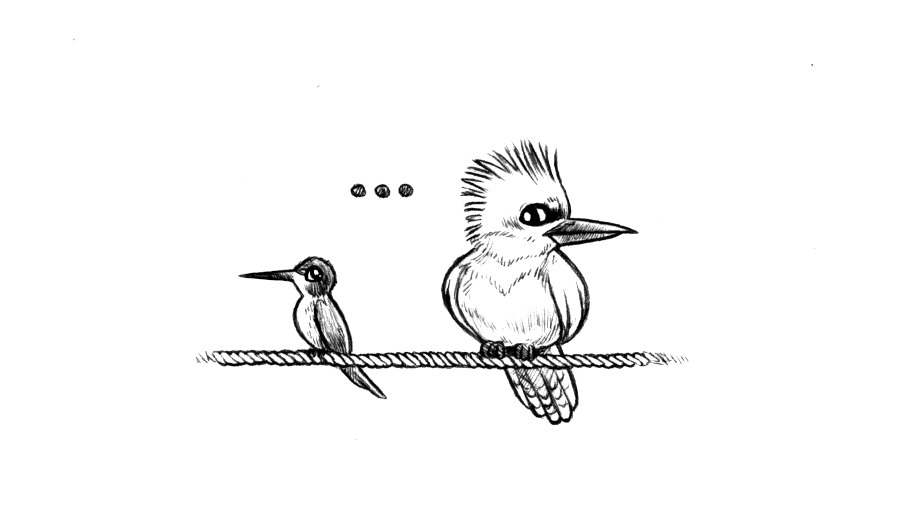
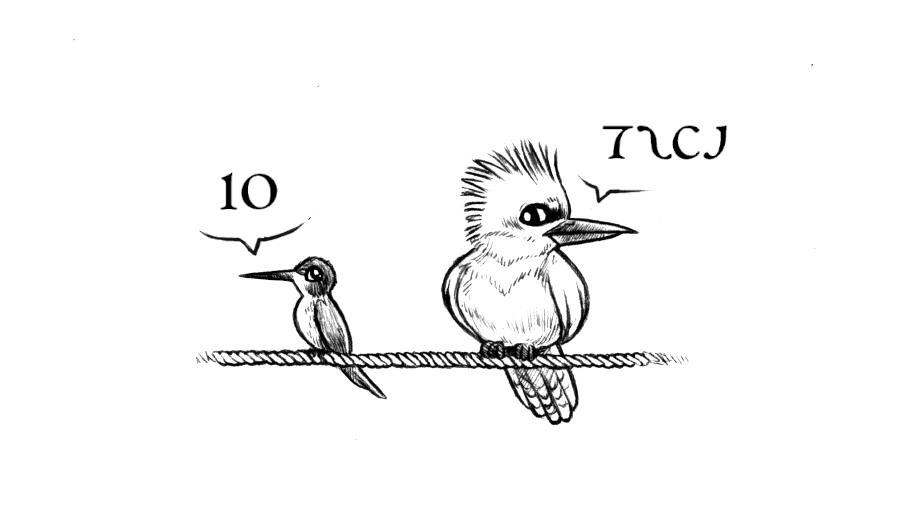
*

diff --git a/site/2025.html b/site/2025.html
@@ -55,7 +55,7 @@
 
 <h2 id='jul2025'>July 2025</h2>
 
-<img src="../media/content/videos/july_2025.jpg" alt="a hummingbird and a kingfisher who dont know what to say to each other" loading="lazy" width="1200" height="679">
+<img src="../media/content/videos/july_2025.jpg" alt="a hummingbird and a kingfisher who both are claiming Pino as theirs in Solresol" loading="lazy" width="1200" height="679">
 
 <ul>
 	<li><b><a href="https://itch.io/jam/catjam-2025">Catjam 2025</a></b>, finished a small game called <a href="https://hundredrabbits.itch.io/polycat" target="_blank">Polycat</a>!</li>

diff --git a/site/home.html b/site/home.html
@@ -59,7 +59,7 @@
 
 <h2 id='jul2025'>July 2025</h2>
 
-<img src="../media/content/videos/july_2025.jpg" alt="a hummingbird and a kingfisher who dont know what to say to each other" loading="lazy" width="1200" height="679">
+<img src="../media/content/videos/july_2025.jpg" alt="a hummingbird and a kingfisher who both are claiming Pino as theirs in Solresol" loading="lazy" width="1200" height="679">
 
 <ul>
 	<li><b><a href="https://itch.io/jam/catjam-2025">Catjam 2025</a></b>, finished a small game called <a href="https://hundredrabbits.itch.io/polycat" target="_blank">Polycat</a>!</li>

diff --git a/site/log.html b/site/log.html
@@ -57,7 +57,7 @@
 
 <h2 id='jul2025'>July 2025</h2>
 
-<img src="../media/content/videos/july_2025.jpg" alt="a hummingbird and a kingfisher who dont know what to say to each other" loading="lazy" width="1200" height="679">
+<img src="../media/content/videos/july_2025.jpg" alt="a hummingbird and a kingfisher who both are claiming Pino as theirs in Solresol" loading="lazy" width="1200" height="679">
 
 <ul>
 	<li><b><a href="https://itch.io/jam/catjam-2025">Catjam 2025</a></b>, finished a small game called <a href="https://hundredrabbits.itch.io/polycat" target="_blank">Polycat</a>!</li>

diff --git a/src/inc/2025.htm b/src/inc/2025.htm
@@ -10,7 +10,7 @@
 
 <h2 id='jul2025'>July 2025</h2>
 
-<img src="../media/content/videos/july_2025.jpg" alt="a hummingbird and a kingfisher who dont know what to say to each other" loading="lazy" width="1200" height="679">
+<img src="../media/content/videos/july_2025.jpg" alt="a hummingbird and a kingfisher who both are claiming Pino as theirs in Solresol" loading="lazy" width="1200" height="679">
 
 <ul>
 	<li><b><a href="https://itch.io/jam/catjam-2025">Catjam 2025</a></b>, finished a small game called <a href="https://hundredrabbits.itch.io/polycat" target="_blank">Polycat</a>!</li>
